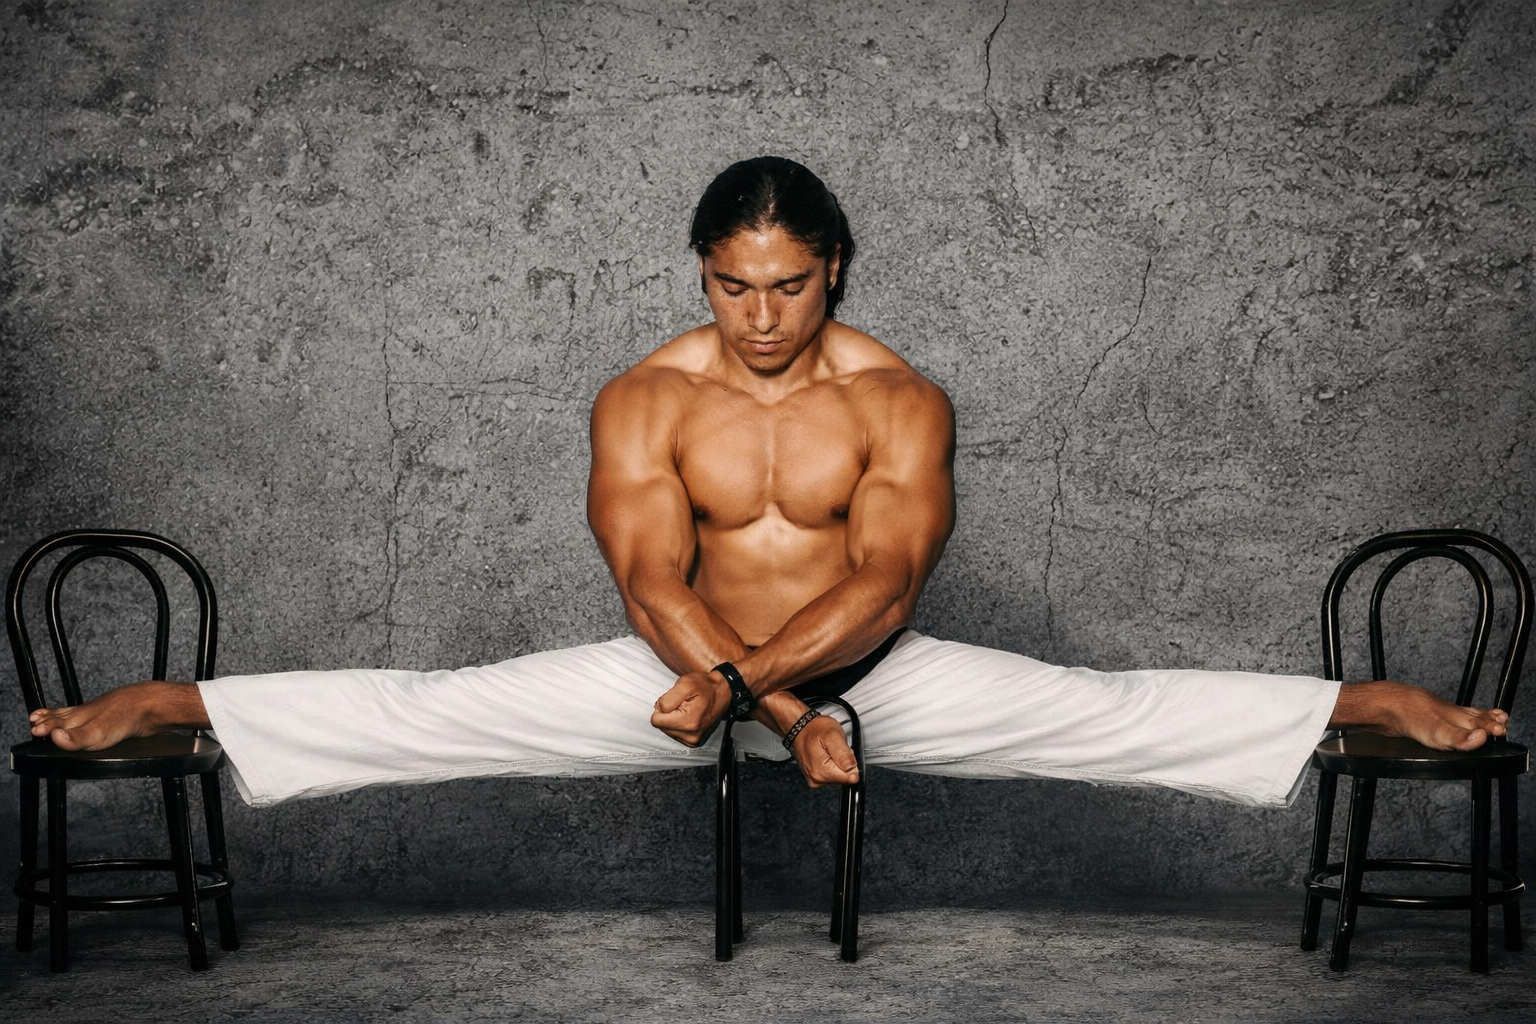
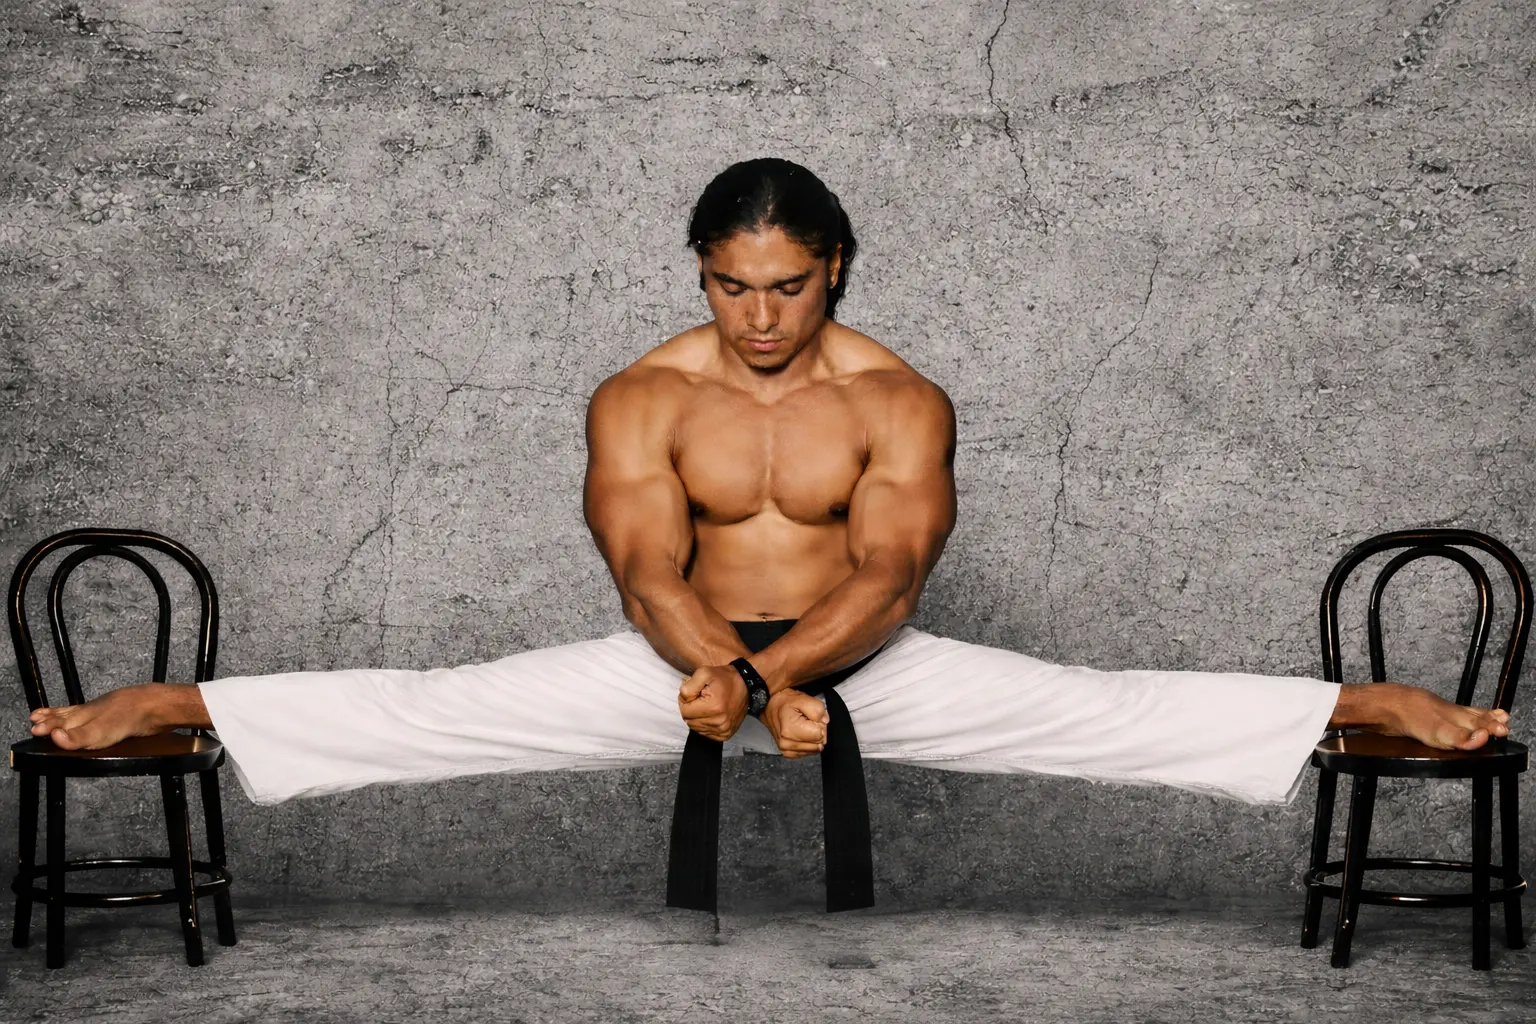
created policy page

diff --git a/src/pages/PrivacyPolicyPage.jsx b/src/pages/PrivacyPolicyPage.jsx
@@ -1,0 +1,137 @@
+import { Link } from "react-router-dom";
+
+export const PrivacyPolicyPage = () => {
+	return (
+		<div className="min-h-screen bg-white text-zinc-900 px-6 py-12">
+			<div className="max-w-4xl mx-auto">
+				<div className="mb-10">
+					<Link
+						to="/"
+						className="inline-block text-sm uppercase tracking-widest text-zinc-500 hover:text-zinc-900 transition"
+					>
+						← Back to homepage
+					</Link>
+				</div>
+
+				<h1 className="text-4xl md:text-5xl font-bold tracking-wide mb-6">
+					Privacy Policy
+				</h1>
+
+				<p className="text-zinc-600 text-lg mb-10 leading-relaxed">
+					At <span className="font-semibold">CIEPTIS</span>, we respect your privacy and are committed to protecting your personal data.
+					This Privacy Policy explains how we collect, use and protect the information you share with us through our website, ads, forms, Messenger, Instagram or WhatsApp.
+				</p>
+
+				<div className="space-y-10 text-zinc-800 leading-8">
+					<section>
+						<h2 className="text-2xl font-semibold mb-3">1. Who we are</h2>
+						<p>
+							<span className="font-semibold">CIEPTIS</span><br />
+							Barcelona, Spain<br />
+							Email: <a href="mailto:cieptis.atencion@gmail.com" className="underline hover:text-zinc-600">cieptis.atencion@gmail.com</a><br />
+							WhatsApp: <a href="https://wa.me/34613758331" className="underline hover:text-zinc-600" target="_blank" rel="noreferrer">+34 613 75 83 31</a>
+												</p>
+					</section>
+
+					<section>
+						<h2 className="text-2xl font-semibold mb-3">2. What information we may collect</h2>
+						<p>
+							When you contact us through our website, social media, forms or ads, we may collect:
+						</p>
+						<ul className="list-disc pl-6 mt-3 space-y-2">
+							<li>Name</li>
+							<li>Phone number</li>
+							<li>Email address (if provided)</li>
+							<li>Training preferences</li>
+							<li>Fitness or boxing goals</li>
+							<li>Any message or information you choose to share with us</li>
+						</ul>
+					</section>
+
+					<section>
+						<h2 className="text-2xl font-semibold mb-3">3. How we use your information</h2>
+						<p>We use your information only to:</p>
+						<ul className="list-disc pl-6 mt-3 space-y-2">
+							<li>Respond to your enquiries</li>
+							<li>Provide information about our services</li>
+							<li>Recommend the most suitable training option for you</li>
+							<li>Arrange bookings, sessions or follow-up communication</li>
+							<li>Improve our communication and customer experience</li>
+						</ul>
+					</section>
+
+					<section>
+						<h2 className="text-2xl font-semibold mb-3">4. How we protect your data</h2>
+						<p>
+							We take reasonable measures to protect your personal information and prevent unauthorised access, misuse or disclosure.
+							Your data is handled with care and only used for legitimate communication related to our services.
+						</p>
+					</section>
+
+					<section>
+						<h2 className="text-2xl font-semibold mb-3">5. Sharing of information</h2>
+						<p>
+							We do <span className="font-semibold">not sell</span>, rent or trade your personal data.
+							We only share information if necessary to operate our services, comply with legal obligations or communicate with you through the platforms you used to contact us.
+						</p>
+					</section>
+
+					<section>
+						<h2 className="text-2xl font-semibold mb-3">6. Data retention</h2>
+						<p>
+							We keep your information only for as long as necessary to respond to your request, provide services or maintain communication related to your interest in our training services.
+						</p>
+					</section>
+
+					<section>
+						<h2 className="text-2xl font-semibold mb-3">7. Your rights</h2>
+						<p>You may request at any time:</p>
+						<ul className="list-disc pl-6 mt-3 space-y-2">
+							<li>Access to the data we hold about you</li>
+							<li>Correction of inaccurate information</li>
+							<li>Deletion of your personal data</li>
+							<li>Withdrawal of consent for communication</li>
+						</ul>
+						<p className="mt-4">
+							To do so, contact us at:{" "}
+							<a href="mailto:cieptis.atencion@gmail.com" className="underline hover:text-zinc-600">
+								cieptis.atencion@gmail.com
+							</a>
+						</p>
+					</section>
+
+					<section>
+						<h2 className="text-2xl font-semibold mb-3">8. Third-party platforms</h2>
+						<p>
+							If you contact us through Meta platforms (Facebook, Instagram, Messenger), WhatsApp or other third-party services,
+							your information may also be processed according to their own privacy policies.
+							We recommend reviewing those platforms if you want to know more about how they manage your data.
+						</p>
+					</section>
+
+					<section>
+						<h2 className="text-2xl font-semibold mb-3">9. Contact</h2>
+						<p>
+							If you have any questions about this Privacy Policy or how your data is handled, please contact us:
+						</p>
+						<p className="mt-3">
+							Email: <a href="mailto:cieptis.atencion@gmail.com" className="underline hover:text-zinc-600">cieptis.atencion@gmail.com</a><br />
+							WhatsApp: <a href="https://wa.me/34613758331" className="underline hover:text-zinc-600" target="_blank" rel="noreferrer">+34 613 75 83 31</a>
+						</p>
+					</section>
+
+					<section>
+						<h2 className="text-2xl font-semibold mb-3">10. Updates to this policy</h2>
+						<p>
+							We may update this Privacy Policy from time to time to reflect legal, operational or service changes.
+							Any updates will be published on this page.
+						</p>
+						<p className="mt-4 text-sm text-zinc-500">
+							Last updated: April 2026
+						</p>
+					</section>
+				</div>
+			</div>
+		</div>
+	);
+};

diff --git a/src/App.jsx b/src/App.jsx
@@ -19,6 +19,7 @@ import { Blog } from './pages/Blog';
 import ScrollToTopButton from './components/ScrollToTopButton'
 import ChatWidget from './components/ChatWidget'
 import ContactPage from './pages/ContactPage';
+import { PrivacyPolicyPage } from './pages/PrivacyPolicyPage';
 
 function App() {
 
@@ -47,6 +48,7 @@ function App() {
           <Route path="/blog/:category/:id" element={<Article />} />
 
           <Route path='*' element={<NotFound />} />
+          <Route path='/privacy-policy' element={<PrivacyPolicyPage />} />
 
         </Routes>
       </div>
